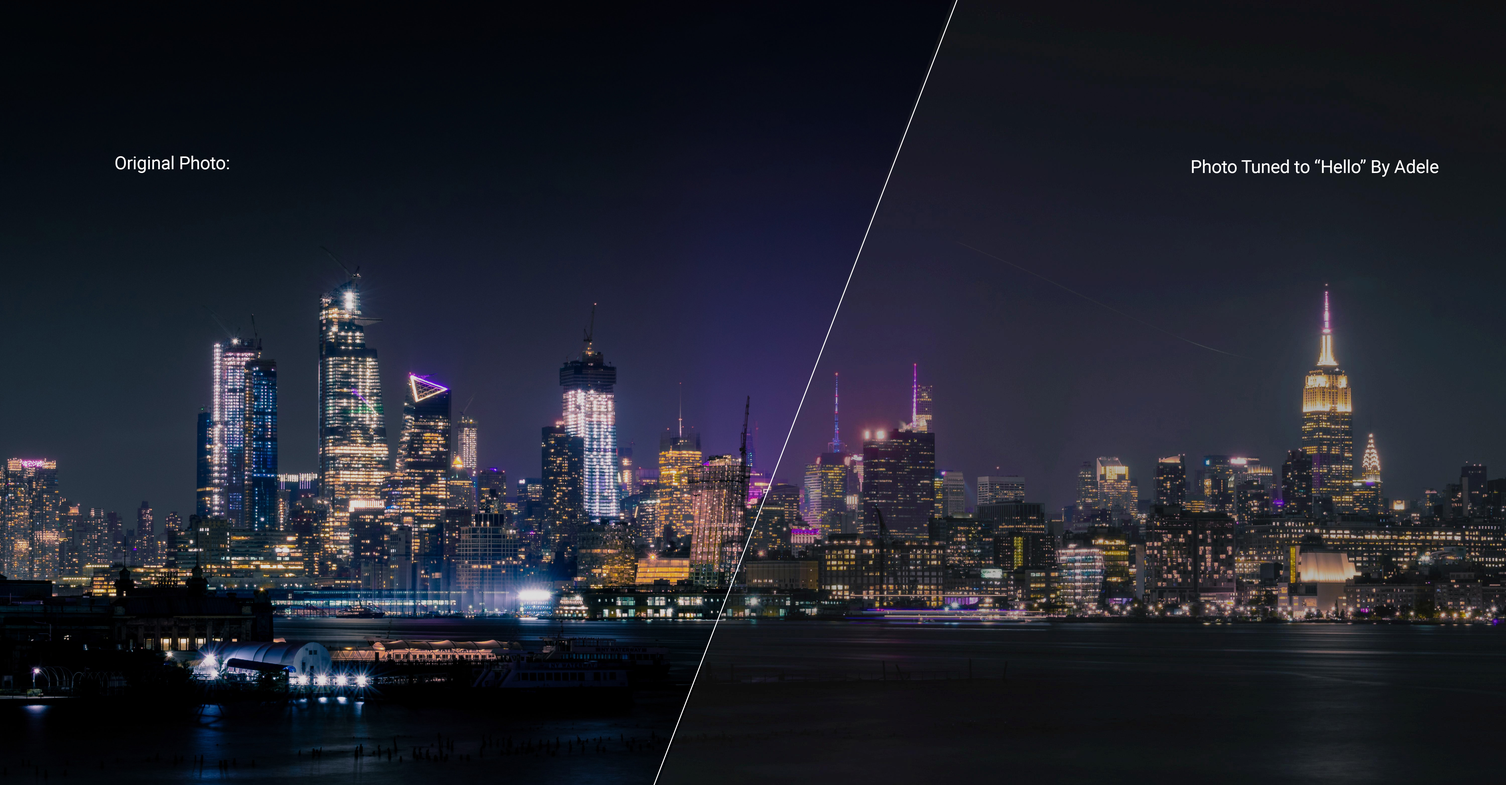
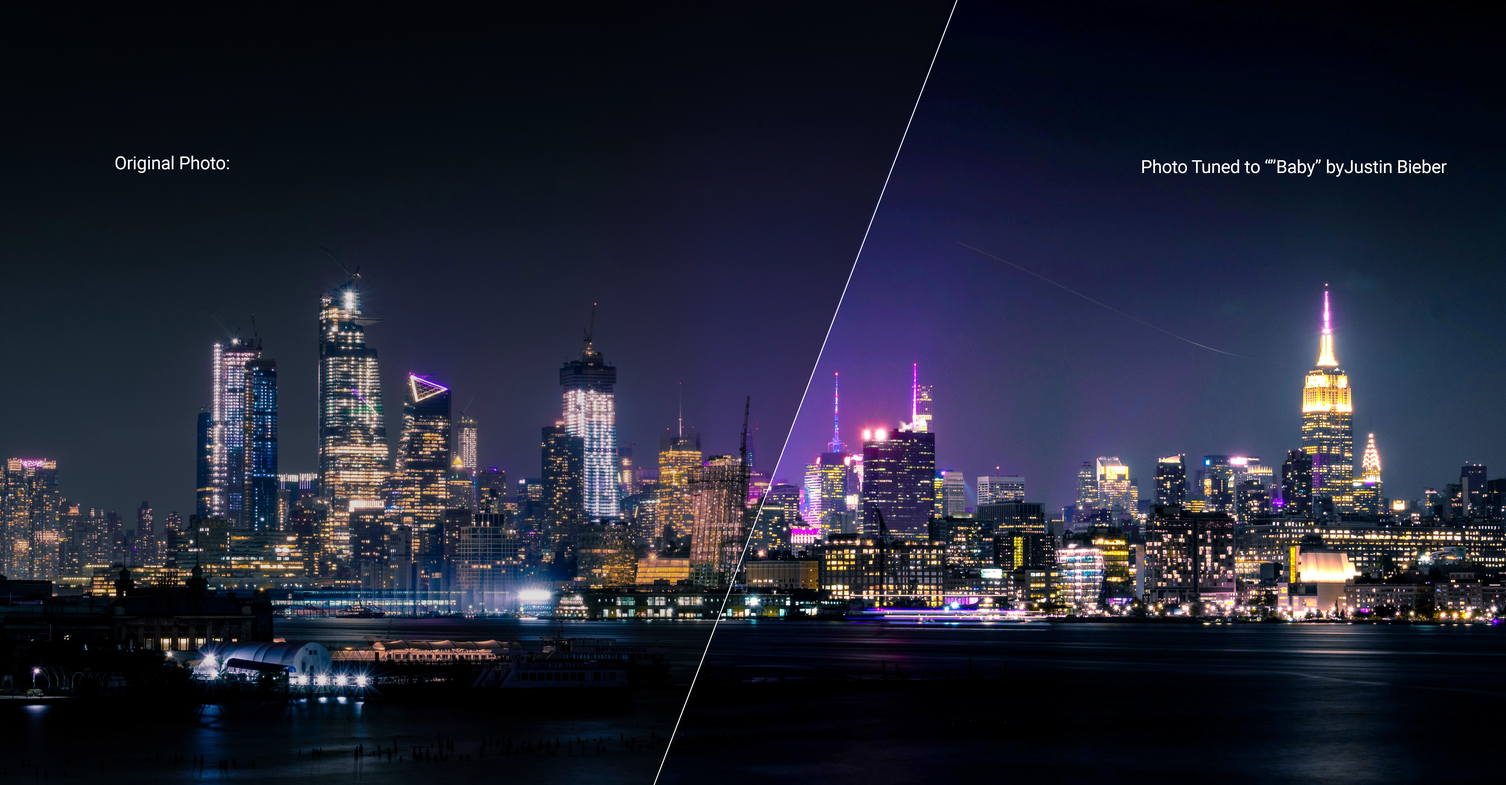
photos

Changed region(s): [[0.4675, 0.2478, 1.0, 0.8675], [0.748, 0.1859, 0.9662, 0.2169]]

diff --git a/templates/layout.html b/templates/layout.html
@@ -14,7 +14,7 @@
     <script src="https://maxcdn.bootstrapcdn.com/bootstrap/4.0.0/js/bootstrap.min.js" integrity="sha384-JZR6Spejh4U02d8jOt6vLEHfe/JQGiRRSQQxSfFWpi1MquVdAyjUar5+76PVCmYl" crossorigin="anonymous"></script>
 
 
-    <title> Shiny Guacamole </title>
+    <title> FineTuned </title>
 </head>
 
 <body>

diff --git a/templates/edited.html b/templates/edited.html
@@ -3,7 +3,7 @@
 {% block body %}
     <div class="container">
 
-        <h2> Selected Image(s): </h2>
+        <h2> Edited Image(s): </h2>
         <h3> Best Song Match: {{title}} by {{artist}} </h3>
         <div class="gallery">
 
